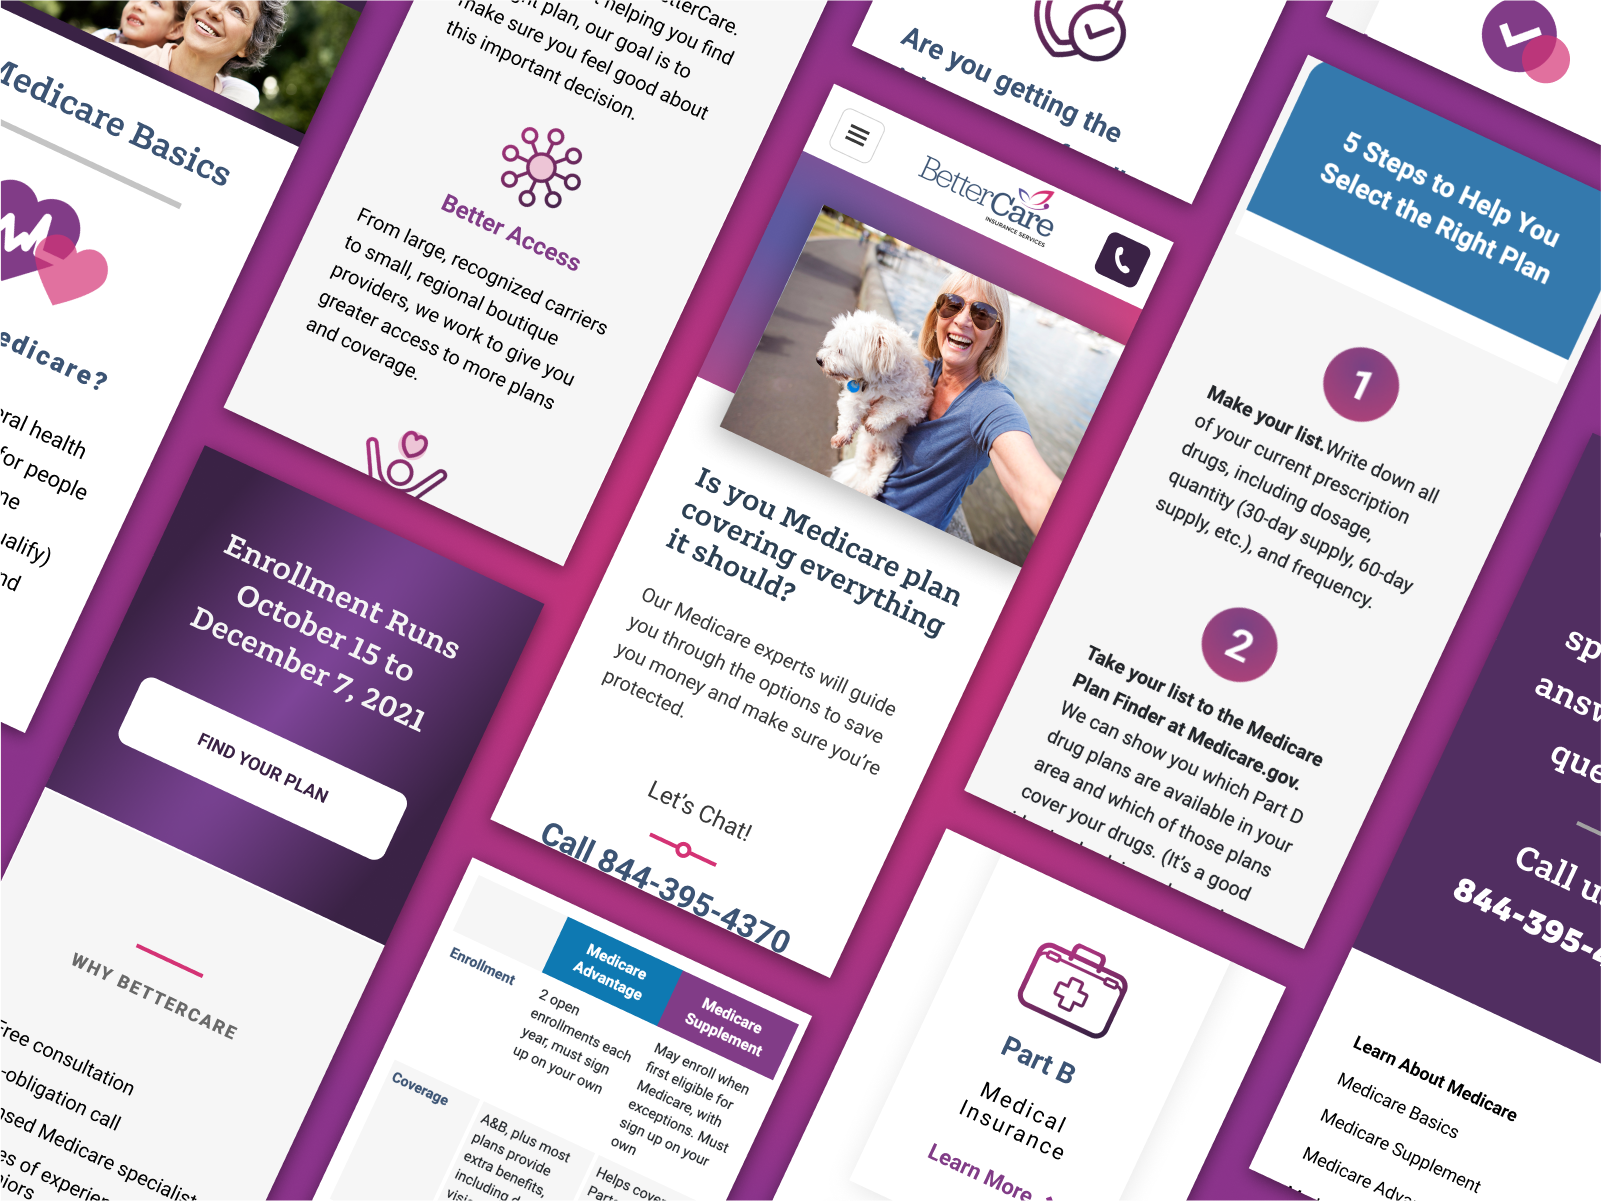
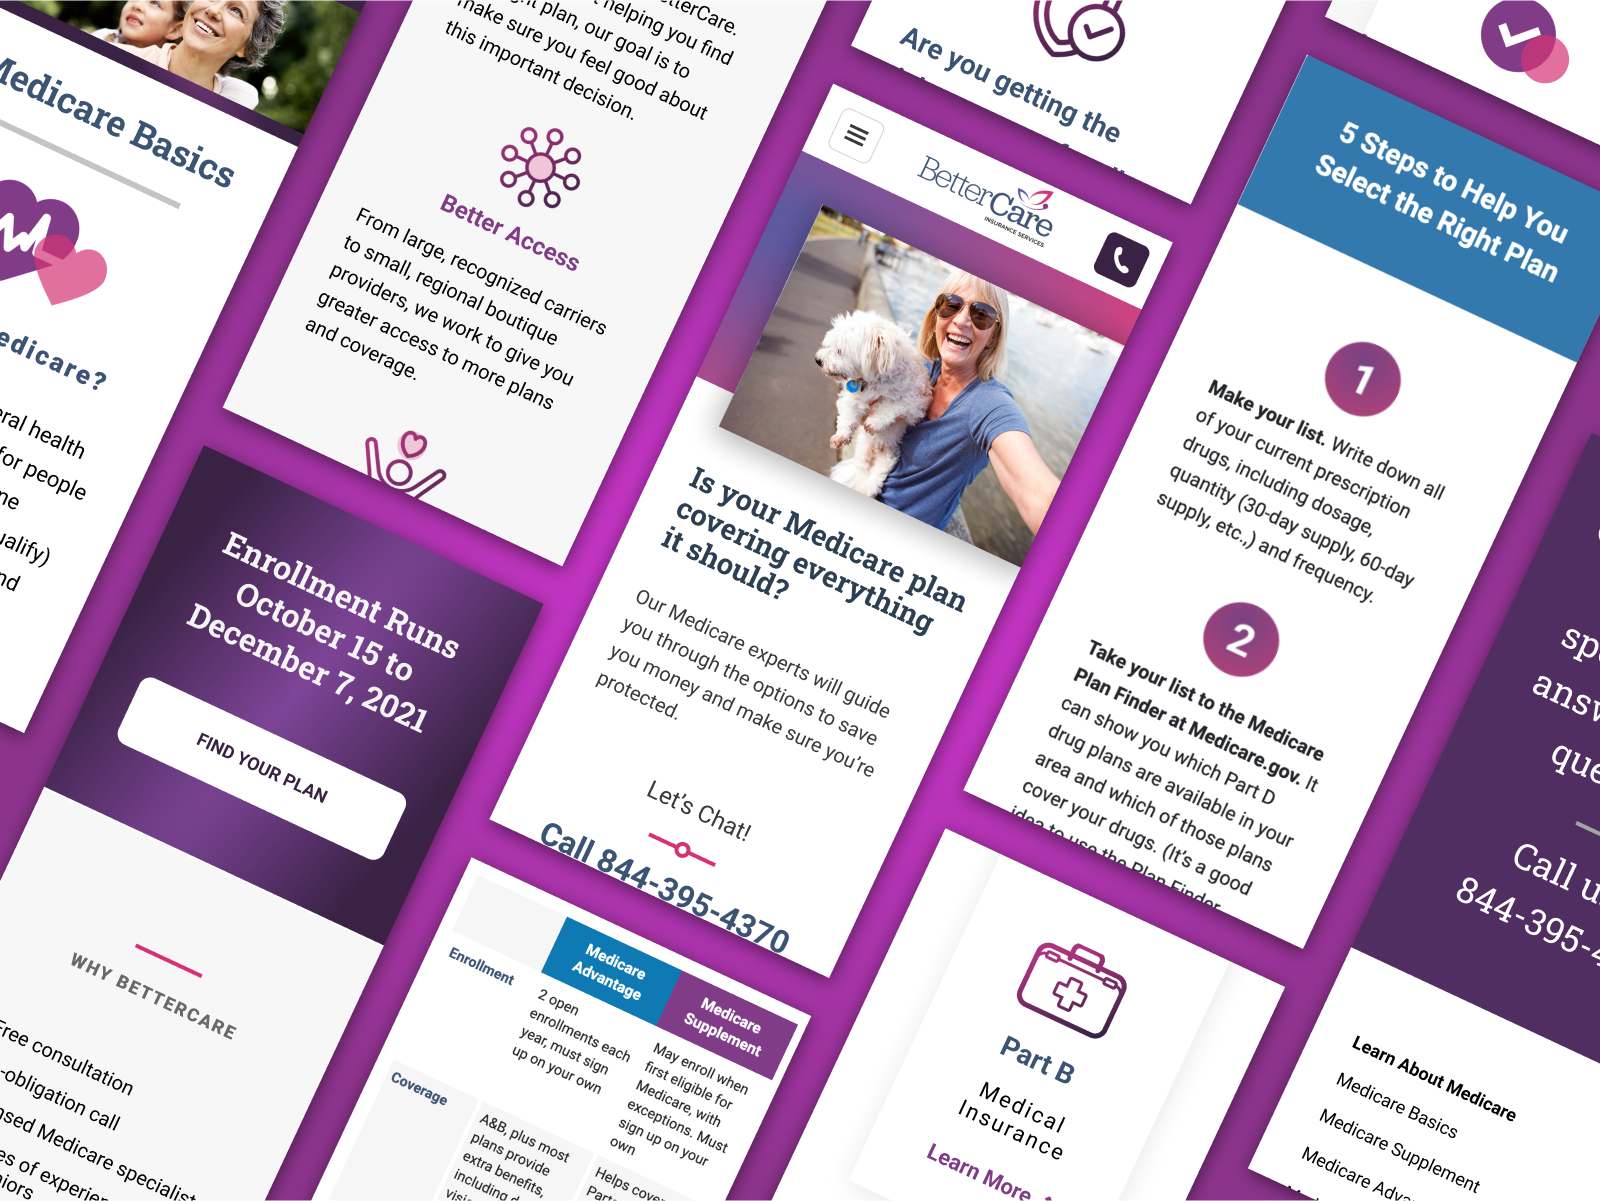
latest bettercare

diff --git a/uc/bettercare.html b/uc/bettercare.html
@@ -77,7 +77,7 @@
                     <div class="col-md-10 col-lg-8 mx-auto">
 
                         <h3 class="!pt-1">Overview</h3>
-                        <p> This recently formed organization needed a website to connect with its audience. The goals were to present informative content, give a corporate overview, and connect users with a 3rd party application.
+                        <p> BetterCare was a new organization specializing in helping seniors acquire Medicare. They needed a website to connect with their audience. The goal of the site was to help people by providing valuable content, giving a corporate overview, and connecting users with a 3rd party application.
                         </p>
                         <img src="../assets/img/portfolio/bettercare-logo.svg" width="200" class="mx-auto d-block mb-3">
 
@@ -86,10 +86,13 @@
                         <p class="mb-1"> <strong>Design Lead</strong> &mdash; Led all Research, Ideation, Prototypes, and User Testing.
                         </p>
 
-                        <p><strong>The Team</strong> &mdash; Product Owner, Marketing Manager, two Copywriters, Tech Lead.
+                        <p><strong>The Team</strong> &mdash;  Marketing Director, Product Owner, two Copywriters, Tech Lead.
                         </p>
 
-
+                        <h3 class="pt-5">The Process</h3>
+                        <p>BetterCare was a new organization without a process defined for building a website. Leading with a clear human-centered process helped define the business vision and kept the project moving
+                            forward. I applied a human-centered approach comprised of four phases: <strong>Discovery, Define, Develop, and Deliver</strong>.</p>
+                        <img src="../assets/img/portfolio/process_bettercare.png" class="img-fluid w-75 mx-auto d-block">
                     </div>
                 </div>
 
@@ -106,7 +109,7 @@
 
                         </h3>
                         <p class="pt-2 mb-0">
-                            USAA’s Add or Replace Vehicle experience was outdated and cumbersome. Users had given feedback about the experience taking too long. We wanted to modernize and streamline the app while creating an experience centering on user needs.
+                            Seniors can get overwhelmed with choosing the right Medicare coverage for their needs. BetterCare seeks to build a website to connect seniors with Medicare specialists that help them select their best coverage.
                         </p>
 
                     </div>
@@ -115,6 +118,29 @@
             </div>
         </section>
 
+        <!--section class="page-section bg-white">
+            <div class="container">
+                <div class="row">
+                    <div class="col-sm-12 col-md-10 col-lg-8 mx-auto">
+                        <div class="h2-topper mx-auto"></div>
+                        <h2 class="text-center mb-5 text-uppercase">
+                            Kickoff
+                        </h2>
+
+                        <h3 class="pt-5">Plan a Timeline</h3>
+                        <p class="mb-0">
+                            I met with the Experience Owner and Product Managers to understand known user pain points. Working with a Product Manager, I coordinated user interviews to see what people expected from the experience.
+                        </p>
+
+                        <h3 class="pt-5">Identify Players Needed</h3>
+                        <p class="mb-0">
+                            I met with the Experience Owner and Product Managers to understand known user pain points. Working with a Product Manager, I coordinated user interviews to see what people expected from the experience.
+                        </p>
+                    </div>
+
+                </div>
+            </div>
+        </!--section-->
 
 
 
@@ -128,9 +154,9 @@
                             Research
                         </h2>
 
-                        <h3 class="pt-5">Understanding the Customer</h3>
+                        <h3 class="pt-5">Empathize with Users</h3>
                         <p class="mb-0">
-                            I met with the Experience Owner and Product Managers to understand known user pain points. Working with a Product Manager, I coordinated user interviews to see what people expected from the experience.
+                            I interviewed seniors to understand how they'd look for Medicare coverage and what challenges they've faced with other websites. 
                         </p>
                     </div>
 
@@ -174,24 +200,25 @@
                         </p>
 
                         <div class="bg-llgray pt-4 px-4 pb-2 rounded">
-                            <h4>The Shopper</h4>
-                            <p>“I’m researching new cars and wonder what the cost of insurance would be for each. Insurance plays an important part in my decision process.”</p>
+                            <h4>The Newbie</h4>
+                            <p>“I'm researching Medicare and don't know how to get the right coverage. I also don't want to overpay.”</p>
                             <p class="text-detail">
-                                <strong>Priorities: </strong> Price, Comparing Options, Appropriate Coverage</p>
+                                <strong>Priorities: </strong> Appropriate Coverage, Guidance, Price </p>
 
-                            <h4 class="mt-4 border-top pt-4">The Buyer</h4>
-                            <p>“So excited, I just bought a new car and I am ready to enjoy it!”</p>
-                            <p class="text-detail"><strong>Priorities: </strong> Time, Ease of Use, General Coverage</p>
+                            <h4 class="mt-4 border-top pt-4">The Switcher</h4>
+                            <p>“I have Medicare, but I want adjust my coverage to better fit my needs.”</p>
+                            <p class="text-detail"><strong>Priorities: </strong> Comparing Options, Valuable Information, Guidance</p>
                         </div>
 
                         <h3 class="pt-5">Identifying User Pain Points</h3>
                         <p>
-                            Research had revealed eight key user pain points, some of which included:
+                            Research had revealed many key user pain points, some of which included:
                         </p>
                         <ul>
-                            <li>“Why do I need to provide so much information to get a quote?”</li>
-                            <li>“I don’t have a lot of time to spend getting a quote.”</li>
-                            <li>“I do not feel fully confident in the quote I got online.”</li>
+                            <li>“Getting insurance is confusing. There are so many choices and things to know.”</li>
+                            <li>“I don't want to spend a lot of time doing this.”</li>
+                            <li>“I do not feel fully confident figuring it out on my own.”</li>
+                            <li>“Some websites have the text so small that it hurts my eyes to read.”</li>
                         </ul>
 
                     </div>
@@ -374,7 +401,7 @@
         </section>
 
 
-        <section class="page-section !border-top bg-borrowerportal">
+        <section class="page-section !border-top bg-bettercare-main">
             <div class="container text-center">
                 <a href="../index.html"><button type="button" class="btn btn-primary btn-lg">
                     

diff --git a/index.html b/index.html
@@ -217,10 +217,10 @@
                     </div>
                     <div class="col-md-6 col-lg-5 pr-md-0 my-auto">
                         <div class="subhead-text text-uppercase">
-                            AAG
+                            American Advisors Group
                         </div>
                         <h3 class="mb-3">
-                            Loan Center Redesign</h3>
+                            Loan Portal Redesign</h3>
                         <p class="mb-3">Utilizing research and user data, I simplified the loan process experience for AAG customers.
                         </p>
                         <div class="row mx-0 my-4">

diff --git a/uc/bp.html b/uc/bp.html
@@ -55,10 +55,10 @@
         <header class="masthead bg-borrowerportal-main text-grey text-center">
             <div class="container d-flex align-items-center flex-column">
                 <div class="lead-text text-center text-uppercase ">
-                    AAG
+                    American Advisors Group
                 </div>
                 <div>
-                    <h1 class="mb-5">Loan Center Redesign</h1>
+                    <h1 class="mb-5">Loan Portal Redesign</h1>
                 </div>
                 <div class="hero-pic col-12">
 

diff --git a/uc/addSub.html b/uc/addSub.html
@@ -220,7 +220,7 @@
                             Human-Centered Design
                         </h3>
 
-                        <img src="../assets/img/portfolio/hcd-addsub.jpg" class="img-fluid">
+                        <img src="../assets/img/portfolio/hcd-addsub.jpg" class="img-fluid w-100">
                         <p class="text-detail mt-2 text-center">Empathy map exercise that was conducted with stakeholders.</p>
 
                         <p>

diff --git a/css/new-styles.css b/css/new-styles.css
@@ -955,6 +955,11 @@ mark {
     padding-top: calc(2rem + 74px);
 }
 
+.bettercare-container .h2-topper {
+    background-color: #d43475;
+}
+
+
 .bettercare-container .lead-text {
     color: #8b348b;
 }
